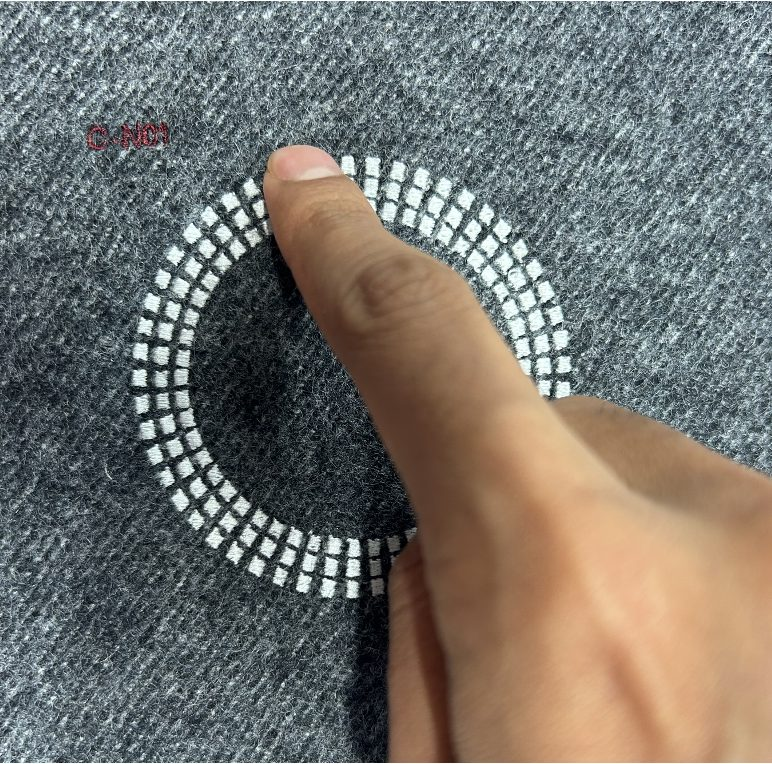
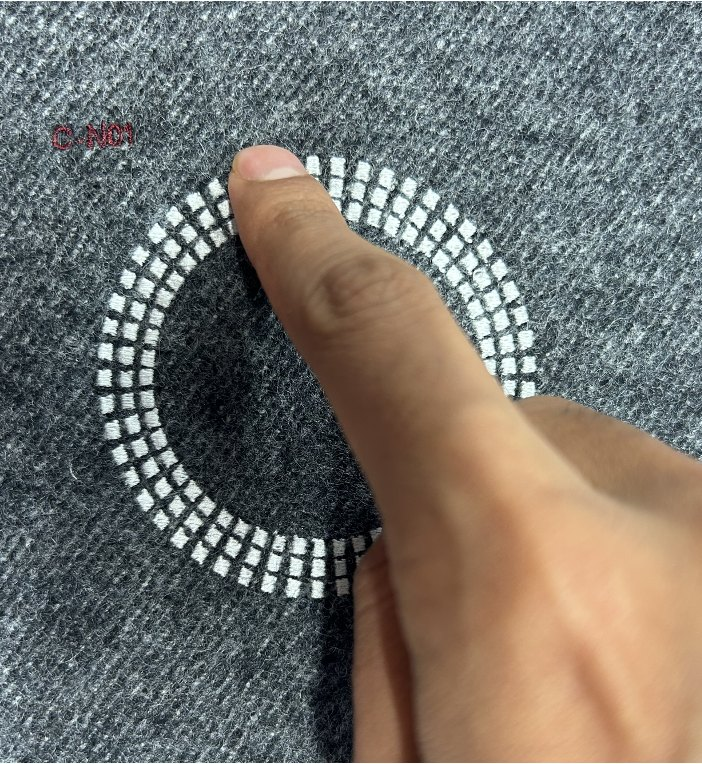
c 14

diff --git a/project.html b/project.html
@@ -102,6 +102,9 @@
     .takeaways li { background: #fff; padding: 1rem 1.1rem; font-family: var(--display); font-weight: 600; font-size: 1rem; letter-spacing: -.01em; }
     .takeaways li span { display: block; font-family: var(--mono); font-weight: 400; font-size: .68rem; color: var(--accent); letter-spacing: .06em; text-transform: uppercase; margin-bottom: .3rem; }
     .fig-grid figure img { width: 100%; aspect-ratio: 3 / 2; object-fit: cover; }
+    /* Side-by-side pair with equal heights: columns proportional to each image's aspect ratio */
+    .fig-pair { grid-template-columns: 1.2805fr 0.92fr; }
+    .fig-pair img { width: 100%; height: auto; }
     .video-mid { max-width: 640px; }
     .prose figure + p { margin-top: 1.75rem; }
     .quote { border-left: 3px solid var(--accent); padding: .2rem 0 .2rem 1rem; margin: 1.5rem 0 0; font-family: var(--display); font-weight: 500; font-size: 1.15rem; line-height: 1.35; color: var(--ink); max-width: 46ch; }
@@ -166,7 +169,7 @@
         <p>A soft console needs a cover — and the cover itself can tell people how to interact. Two design objectives guided the textile surface: <strong>visual features</strong> (patterns and textures) should convey the intended interaction, and <strong>tactile features</strong> should reinforce those visual cues on touch.</p>
         <p>Prototypes were made on a <strong>commercial embroidery machine</strong>. Non-functional samples, embroidered with regular yarns, were used to study how people interact with the embroidered features and to explore a geometry-driven design space of patterns and textures.</p>
         <figure><img src="projects/textile-interfaces/embroidery-machine.jpg" alt="Multi-head commercial embroidery machine stitching a textile sample" loading="lazy" /><figcaption>Textile prototypes on a commercial embroidery machine.</figcaption></figure>
-        <div class="fig-row">
+        <div class="fig-row fig-pair">
           <figure><img src="projects/textile-interfaces/nonfunctional-samples.jpg" alt="Grid of embroidered textile samples with dot, ring and spiral patterns" loading="lazy" /><figcaption>Non-functional samples: patterns and textures in regular yarn.</figcaption></figure>
           <figure><img src="projects/textile-interfaces/ring-pattern.jpg" alt="Finger tracing an embroidered ring pattern" loading="lazy" /><figcaption>Probing the affordance of a circular pattern.</figcaption></figure>
         </div>
